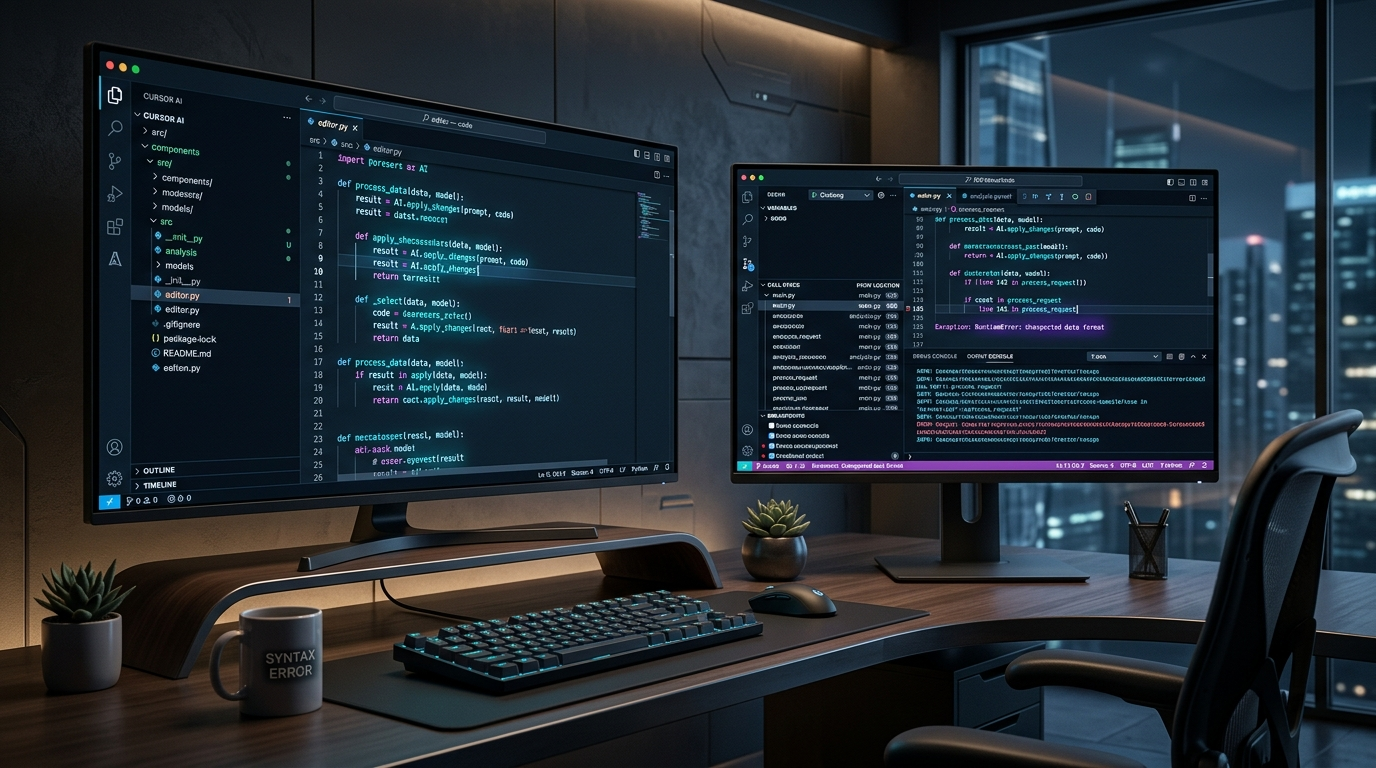
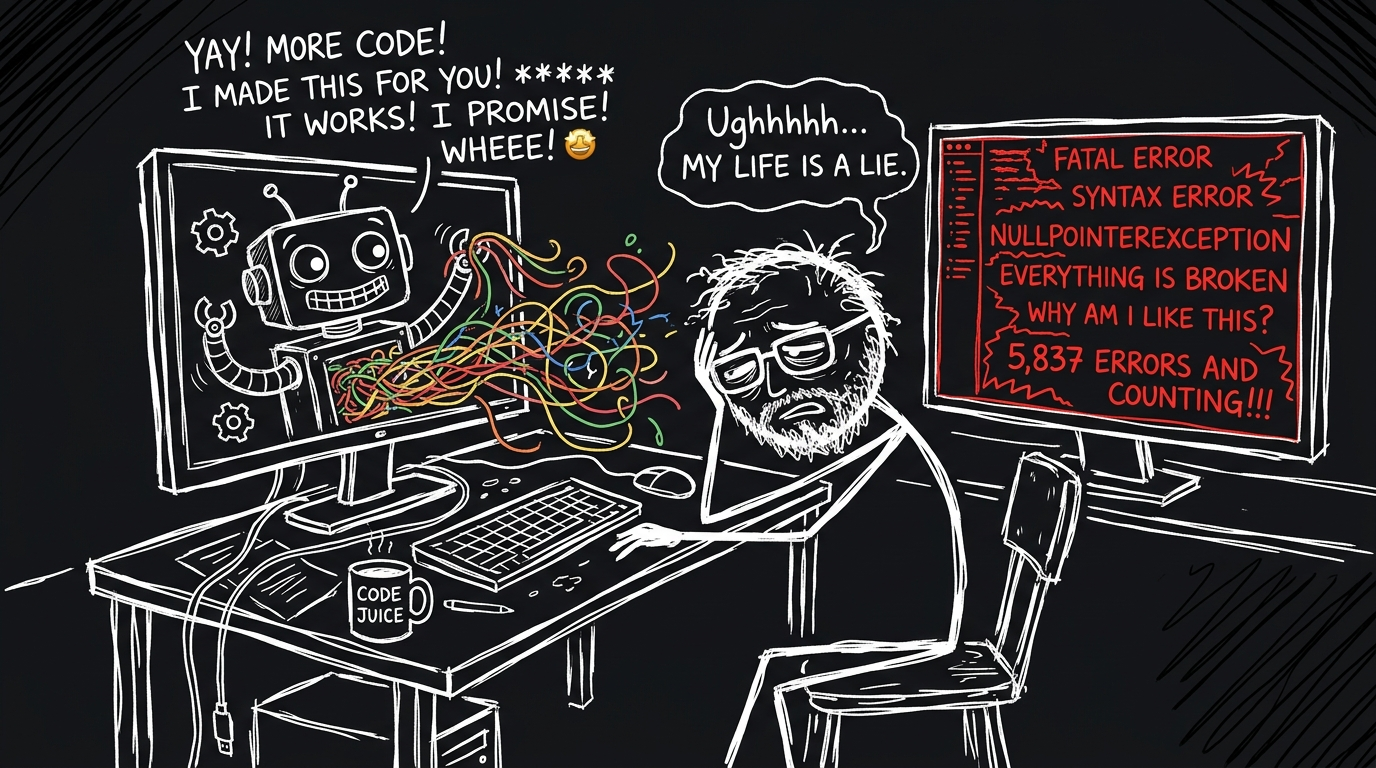
feat(blog): upgrade Cursor AI post with doodle illustrations and sensational title

diff --git a/src/data/blog/cursor-ai-guideline-en.md b/src/data/blog/cursor-ai-guideline-en.md
@@ -1,6 +1,6 @@
 ---
-title: "Cursor AI Editor in Enterprise: 3-Layer Model, Zero Trust Security & Keeping AI Code Safe"
-description: "Dissecting our internal technical guidelines on bringing Cursor AI into production: from layered tooling strategies and UI conversion pipelines to Zero Trust security and 2-tier Rules & Skills management."
+title: "Cursor AI: Master It or Get Wrecked by It"
+description: "Dissecting internal technical guidelines from VNPT: How to tame Cursor AI using a 3-layer model, 3-step UI pipeline, and Zero Trust Security to never clean up AI code garbage again."
 pubDate: 2026-08-11
 category: "engineering"
 image: "/blog/cursor-ai-guideline/hero.jpg"
@@ -9,19 +9,26 @@ translationKey: "cursor-ai-guideline"
 draft: false
 ---
 
-![Cursor AI Code Editor in Enterprise Environment](/blog/cursor-ai-guideline/hero.jpg)
+![Cursor AI Meme: When AI generates spaghetti code and dev has to clean it up](/blog/cursor-ai-guideline/hero.jpg)
 
-> **TL;DR** — Deploying an AI Code Editor in an enterprise setting isn't as simple as handing out Cursor accounts and telling everyone to "go fast". Without proper guidelines, AI produces a mountain of low-quality "instant noodles" code, hallucinates business logic, and poses severe risks of leaking internal API keys. This post breaks down our entire internal technical handbook: from a 3-layer tooling strategy, dual-window Backend/Frontend workflows, Zero Trust security mechanics, to a 2-tier Rules & Skills management system that gets AI code right on the first try.
+> **TL;DR** — Handing Cursor AI accounts to developers without strict rules is like giving a Ferrari to someone without a driver's license: thrilling for 5 minutes, followed by a total wreck. AI-generated code looks functional on the surface, but underneath lies architectural spaghetti, hallucinatory business logic, and extreme risks of leaking internal API keys. This post breaks down our entire internal engineering handbook at VNPT: from layered tooling strategies and dual-window workflows to Zero Trust security and a 2-tier Rules & Skills framework that gets AI code right on the very first prompt.
 
 ---
 
-## 1. The Biggest Trap: Confusing a "Code Typing Tool" with "Software Engineering Mindset"
+## 1. The "Spaghetti Code Trap": When AI Turns Engineers into Trash Collectors
 
-Many assume Cursor AI allows developers to sit back and merely approve code. The reality is the exact opposite: **Cursor does not replace developer thinking.**
+Have you ever been caught in this nightmare?
 
-When given a vague prompt, AI outputs a generic solution based on public GitHub vocabulary probabilities, rather than an optimal solution tailored for your running microservices architecture. AI-generated code must undergo 3 mandatory steps: **Review ➔ Refine ➔ Business Logic Integration** before reaching `git commit`.
+You type a massive prompt into Cursor: *"Build me an invoice payment service with Kafka and Redis caching support"*. Cursor blinks for a few seconds and spits out 500 lines of impressive-looking code. You happily click **Accept**. But 10 minutes later, when you hit `run`, the server explodes with 40 syntax errors, bizarre class imports, and the database payment logic completely bypassed!
 
-To prevent developers from over-relying on AI or being led astray, we strictly classify tool roles into a **Layered Tooling Strategy**:
+![Dual Window Loop: Cursor vs IDE](/blog/cursor-ai-guideline/dual-window-loop.jpg)
+
+### What is the root cause?
+Cursor is **NOT** a Senior Engineer sitting inside your computer. At its core, an LLM is a next-token prediction engine based on GitHub probabilities. When given a vague question, it hallucinates the most generic solution possible — one that inevitably shatters when dropped into a complex real-world microservices architecture.
+
+AI-generated code must undergo 3 mandatory survival steps: **Review ➔ Refine ➔ Business Logic Integration** before anyone dares type `git commit`.
+
+To align our entire team's mindset, we established a **3-Layer Tooling Strategy**:
 
 | Tool Layer | Primary Tools | Role | Main Responsibilities |
 |---|---|---|---|
@@ -29,13 +36,15 @@ To prevent developers from over-relying on AI or being led astray, we strictly c
 | **Layer 2 — UI Prototyping** | Lovable, v0.dev, Stitch | Frontend Design Spec Source | Fast UI prototyping, pre-built layouts, component templates via natural language |
 | **Layer 3 — Execution** | IntelliJ, VS, Rider | Execution & Verification | Build execution, attached Debugger, heap/thread monitoring, profiling before deployment |
 
-> **Core Principle**: Cursor is where you *write code*, while traditional IDEs are where you *run and debug*. Kicking off development means keeping both windows side-by-side.
+> 📌 **Core Rule**: Cursor is where you *write code*, traditional IDEs are where you *run and debug*. Both windows must stay open side-by-side 50/50 on every engineer's screen.
 
 ---
 
 ## 2. Backend Workflow: 3-Step Dual-Window Loop
 
-Don't force Cursor to build and run servers independently unless you want to burn tokens needlessly on syntax errors. The optimal workflow is a dual-window setup:
+A common mistake among new Cursor users is forcing AI to open terminals, run build commands, and then asking AI why the build failed. This burns tokens needlessly and is painfully slow.
+
+The optimal approach is the **Dual-Window Workflow**:
 
 ```
 ┌──────────────────────────────────────┐        ┌──────────────────────────────────────┐
@@ -48,50 +57,59 @@ Don't force Cursor to build and run servers independently unless you want to bur
 └──────────────────────────────────────┘        └──────────────────────────────────────┘
 ```
 
-The practical loop operates as follows:
+### The 3-Step Practical Loop:
 
-1. **Dual-Environment Setup**: Open traditional IDE with server running in Debug mode. Open Cursor on the same project repository. Keep the IDE application state active.
-2. **Development Loop**: Engineer requests Cursor to write or refactor code ➔ Save file ➔ IDE automatically hot-reloads / rebuilds ➔ Observe logs and results in IDE. Fix minor issues immediately back in Cursor.
-3. **Advanced Debugging**: When hitting runtime exceptions or complex logic bugs, step through breakpoints in IDE. Copy the Stack Trace from IDE and paste into Cursor for AI to analyze root cause and suggest patches.
+1. **Dual-Environment Setup**: Open traditional IDE, boot the server in Debug mode. Open Cursor on the same project repository. Throughout the day, the traditional IDE maintains the running application state.
+2. **Development Loop**: 
+   - On Cursor: Prompt AI to generate Controllers, Services, or Refactor code.
+   - Save file ➔ Traditional IDE hot-reloads / rebuilds the app automatically in 1-2 seconds.
+   - Observe runtime logs directly in IDE. If smooth ➔ proceed. If errors arise ➔ fix immediately in Cursor.
+3. **Advanced Debugging (3 AM Crash Scenarios)**:
+   - Hitting complex runtime bugs? Don't guess prompts! Set Breakpoints in IDE, step-through line-by-line to inspect actual variable values (`null`, `undefined`, or incorrect types).
+   - Copy the exact **Stack Trace** from the IDE console, paste into Cursor chat with: `"Analyze root cause of this stack trace and propose a minimal patch"`. AI pinpoint the exact failing line instantly!
 
 ---
 
 ## 3. Frontend Workflow: 3-Step Pipeline from Mockup to Production
 
-AI UI generation usually swings between two extremes: sloppy CSS or copy-pasting raw v0/Lovable output directly into the repo, breaking project conventions.
+Frontend AI disasters usually fall into two categories:
+1. Prompting CSS tweaks until the responsive layout collapses on mobile.
+2. Seeing a beautiful v0/Lovable mockup and copy-pasting raw HTML/React garbage directly into the project repo, duplicating CSS and destroying project conventions.
 
-We categorize Frontend tasks into 2 streams:
+![3-Step UI Pipeline](/blog/cursor-ai-guideline/ui-pipeline.jpg)
 
-* **Minor fixes / Single component additions**: Work directly in Cursor (describe changes, paste design spec or UI bug symptoms).
-* **New UI features / Major refactoring**: Strictly follow the **3-Step Conversion Pipeline**:
+To solve this permanently, we enforce a **3-Step UI Conversion Pipeline**:
 
-```
-[ STEP 1: Lovable / v0 / Stitch ]
-   Natural Language Prompts ──▶ Visual Artifact (Reference design mockup only)
-                                     │
-                                     ▼
-[ STEP 2: Context Extraction ]
-   Technical Spec Extraction ──▶ Tokens, Component Reusability, State, Grid/Flex
-                                     │
-                                     ▼
-[ STEP 3: Cursor Code Gen ]
-   Feed Context into Cursor  ──▶ Production Code fitting Project Conventions (Angular/React/Vue)
-```
+### Stream A — Minor Fixes / Single Component Additions
+Work directly in Cursor by attaching context (e.g., current component file + CSS spec or screenshot of UI bug).
 
-### Context Extraction Details:
-Before prompting Cursor to generate UI code, engineers must extract key technical constraints from the v0/Lovable mockup:
-* **Color, Font, Spacing**: Convert to CSS custom properties or system Design Tokens (Tailwind config, SCSS variables).
-* **Component Breakdown**: Determine which components to create fresh versus which to reuse from existing design libraries.
-* **Data Flow (State)**: Classify local component state vs shared global store state.
+### Stream B — Brand New UI / Major Refactor (3-Step Pipeline)
+
+#### Step 1: Create UI Prototype from Lovable / v0.dev / Stitch
+Describe desired UI using natural language. The output is strictly a **Visual Artifact (reference design)** — Never paste this raw code straight into production!
+
+#### Step 2: Context Extraction
+Engineers inspect the visual mockup and extract technical specifications:
+* **Color, Font, Spacing**: Convert to project CSS custom properties or Design Tokens (Tailwind config, SCSS variables).
+* **Component Breakdown**: What needs to be built fresh? What can be reused from existing UI libraries (AntD, Shadcn, MUI)?
+* **Data Flow (State)**: What state is local? What state belongs in global store (Redux, Signals, Zustand)?
 * **Layout**: Annotate Flexbox / Grid usage to recreate exact layouts within the real framework.
+
+#### Step 3: Conversion via Cursor
+Feed the technical context extracted in Step 2 into Cursor:
+> `"Build BillingCard component using Angular 17 Standalone based on current Tailwind config. Use Signals for local state and inject BillingService for API calls."`
+
+Result: AI outputs code that is 100% styled correctly, follows project conventions, and is free of technical debt!
 
 ---
 
-## 4. Zero Trust Security: Never Trade Data & Secrets for AI Convenience
+## 4. Zero Trust Security: Don't Trade Secrets for AI Convenience
 
-When using AI in enterprise environments (telecom, finance, public sector), **Security is non-negotiable**. Accidental prompt pastes containing DB passwords or internal API keys can trigger severe security breaches.
+In enterprise environments (Telecom, Finance, Healthcare, Government), security is survival. An engineer accidentally pasting a code snippet containing `JWT_SECRET` or `DB_PASSWORD` into an AI prompt can expose an entire infrastructure on the internet.
 
-We enforce a strict **Zero Trust** security posture in Cursor configuration:
+![Zero Trust Security in Cursor AI](/blog/cursor-ai-guideline/zero-trust.jpg)
+
+We enforce a strict **Zero Trust Security** model across all developer workstations:
 
 ```
                           ┌───────────────────────────┐
@@ -108,32 +126,37 @@ We enforce a strict **Zero Trust** security posture in Cursor configuration:
    └───────────────────┘      └───────────────────┘      └───────────────────┘
 ```
 
-1. **Privacy Mode = ON (Mandatory)**: Guarantees project source code is never stored or used by third-party LLM providers for model training.
-2. **Codebase Indexing = ON**: Enables Cursor to index local project structure (Local Indexing) for contextually aware suggestions without exposing code externally.
-3. **MCP (Model Context Protocol) Server**: Deny all unauthorized extensions by default. Only MCP servers explicitly reviewed and approved via `mcp.json` by Tech Leads may be enabled.
-4. **Secret Management**: **Strictly prohibit** pasting API keys, passwords, or tokens into prompts. All environment files (`.env`, `credentials.json`) must be listed in `.cursorignore`.
+1. **Privacy Mode = ON (100% Mandatory)**: Ensures all source code sent to LLMs has zero-data retention and is never used to train future AI models.
+2. **Codebase Indexing = ON**: Enables Cursor to create **Local Indexing** on the developer's machine. AI understands full project structure without data leaving controlled infrastructure.
+3. **MCP (Model Context Protocol) Server**: **Deny All by Default**. Engineers are strictly forbidden from installing arbitrary MCP Servers with file system read/write access. Only MCP servers listed in `mcp.json` reviewed by Tech Leads are permitted.
+4. **Secret Management**: **Strictly prohibit** hardcoding API keys, passwords, or secrets in code or prompts. All sensitive configuration files (`.env`, `credentials.json`, `keystore`) must be added to `.cursorignore`.
 
 ---
 
 ## 5. Architectural Standardisation via *.md Docs
 
-In Microservices architectures, scattered or outdated documentation is the main driver of integration delays. With Cursor AI, we standardize doc generation directly from live codebase via curated prompts:
+As microservices expand, missing documentation causes developers to waste hours asking: *"What payload does this endpoint take?", "How do I run this service locally?"*.
 
-* **`README.md`**: Service overview, local setup guide, env variables.
-  * *Prompt*: `"Read entire project and generate full README.md for this service"`
-* **`API.md`**: REST endpoints list, Request/Response schemas, Auth mechanism, Error codes.
-  * *Prompt*: `"List all REST endpoints with request body, response schema, and HTTP status codes"`
-* **`ARCHITECTURE.md`**: Data flow diagram, external dependencies, message queue topology.
-  * *Prompt*: `"Describe internal architecture, external dependencies, and primary request lifecycle"`
+We turn Cursor into an automatic doc generator via standard prompts:
+
+```
+┌─────────────────┬──────────────────────────────────┬───────────────────────────────────────────┐
+│ Document File   │ Mandatory Contents               │ Sample Cursor Prompt                      │
+├─────────────────┼──────────────────────────────────┼───────────────────────────────────────────┤
+│ README.md       │ Local setup, envvars, stack      │ "Read entire project and generate README" │
+│ API.md          │ List REST endpoints, req/res     │ "List REST endpoints with HTTP statuses"  │
+│ ARCHITECTURE.md │ Dataflow, Message Queue, DB      │ "Describe internal architecture & deps"   │
+└─────────────────┴──────────────────────────────────┴───────────────────────────────────────────┘
+```
 
 ---
 
 ## 6. Knowledge Governance via 2-Tier Skills & Rules
 
-Without guidance, AI defaults to unpredictable coding patterns. We govern AI context through **Skills** and **Cursor Rules**.
+To prevent AI from going rogue or straying from project standards, you must provide a clear rulebook. We govern AI context using **Skills** and **Cursor Rules**.
 
 ### 6.1. Skills Management (`.cursor/skills/`)
-Skills are specialized `*.md` files loaded into Cursor according to domain context.
+Skills are specialized `*.md` files containing domain or tech stack knowledge.
 
 ```
 .cursor/
@@ -149,18 +172,52 @@ Skills are specialized `*.md` files loaded into Cursor according to domain conte
         └── my-shortcuts.md
 ```
 
-* **Usage**: Drag and drop `*.md` files into Cursor chat windows when working on specific modules, or reference via `@file` in `.cursorrules`.
+* **Usage**: Drag and drop `*.md` files into Cursor chat windows when working on related modules, or call `@file` directly in `.cursorrules` to auto-load upon project startup.
 
-### 6.2. 2-Tier Cursor Rules System
-`.cursorrules` files act as the "constitution" forcing AI to adhere to team conventions.
+### 6.2. 2-Tier Cursor Rules System (`.cursorrules` & `.mdc`)
 
-* **Tier 1: Enterprise Rules (`~/.cursor/rules/enterprise.mdc`)** — Mandated by management across all engineers and projects. Overriding is strictly forbidden.
-* **Tier 2: Team Rules (`.cursor/rules/*.mdc`)** — Crafted by Tech Leads per stack (Java/Spring Boot or Angular).
+The `.cursorrules` file acts as the **Constitution** forcing AI to adhere strictly to all engineering conventions.
+
+#### Tier 1: Enterprise Rules (`~/.cursor/rules/enterprise.mdc`)
+Enforced across all company engineers, overriding is strictly forbidden:
+
+```markdown
+# TTKDGP Enterprise Rules – DLS Dept
+## Language & Communication
+- Always respond in Vietnamese in comments and explanations.
+- Variable, function, and class names in English using camelCase / PascalCase.
+- Commit messages strictly follow Conventional Commits (feat/fix/refactor...).
+
+## Security — STRICTLY FORBIDDEN
+- NEVER hardcode API keys, passwords, tokens, or secrets in any file.
+- NEVER independently write auth, authorization, or encryption logic — notify Senior.
+- NEVER log sensitive information (phone numbers, IDs, customer PII).
+
+## Code Quality
+- Functions must not exceed 50 lines. Split if larger.
+- Always add Javadoc / Docstrings for public methods.
+- No magic numbers — declare named constants with clear semantic meaning.
+```
+
+#### Tier 2: Team Rules (`.cursor/rules/*.mdc`)
+Crafted by Tech Leads per project stack (Spring Boot, Angular, React...):
+
+```markdown
+# Team Rules — Backend Java/Spring Boot
+- Use Repository Pattern. Do not call DB directly from Controller or Service.
+- Centralized Exception handling via @ControllerAdvice — no isolated try/catch.
+- Response always wrapped in team standard ApiResponse<T> wrapper.
+
+# Team Rules — Frontend Angular
+- DO NOT use React, JSX, Vue. Angular + TypeScript + HTML template only.
+- State management: RxJS BehaviorSubject or Angular Signals (Angular 17+).
+- Lazy loading mandatory for all feature modules. Standalone component convention.
+```
 
 ---
 
 ## Conclusion
 
-Adopting Cursor AI in an enterprise is not about buying licenses and expecting 10x output overnight. Real velocity comes from **rigorous processes, layered tooling architectures, and strong governance rules that keep AI within bounds.**
+Using Cursor AI is like managing a brilliant intern who lacks practical production experience. If left unguided, they will break your codebase. But if you provide a clear 3-layer workflow, enforce Zero Trust security, and establish a robust 2-tier Rules framework — you gain a "super assistant" that dramatically accelerates software delivery.
 
-AI is a fast-learning apprentice lacking domain experience. Treat AI as a strict Tech Lead would — control security, set clear rules, and transform Cursor into your team's most effective engineering accelerator.
+Remember: **AI generates code, but engineers are responsible for every line pushed to Production!**
